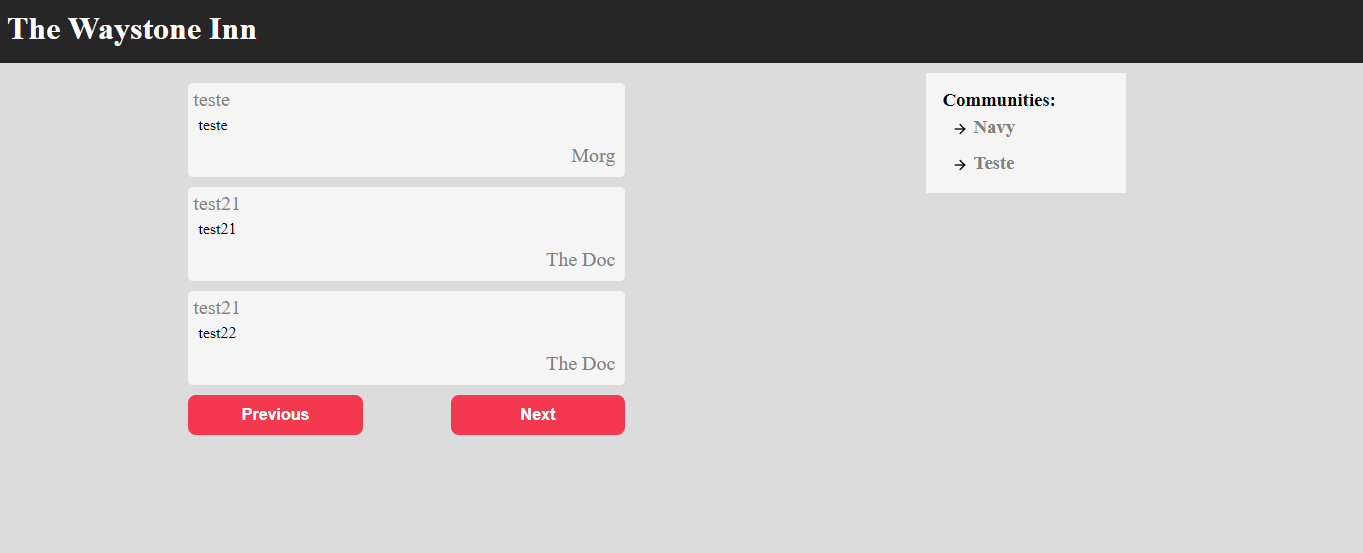
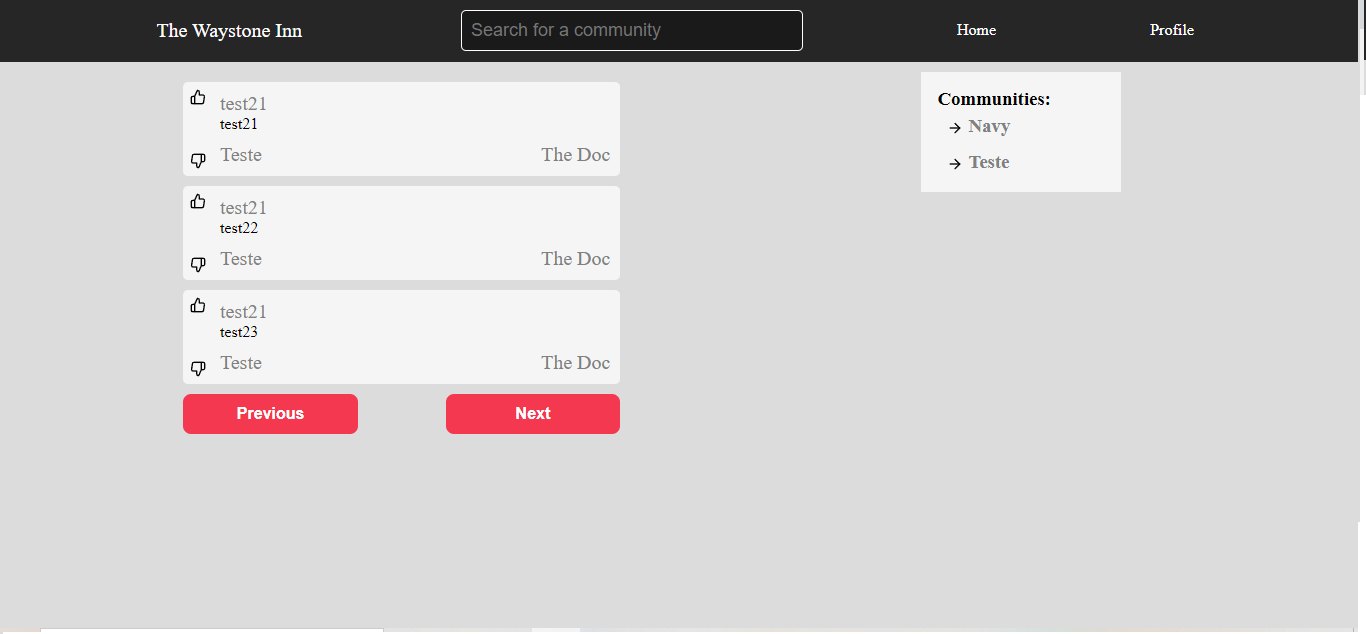
New bar

diff --git a/src/pages/Login/index.js b/src/pages/Login/index.js
@@ -34,41 +34,45 @@ export default function Login(){
         navigate('/')
         window.location.reload()
         }catch(error){
+            console.log(error)
             setError(error.response.data)
             setLoading(false)
         }
     }
     return(
-            <div className='container'>
+            <div className="container">
+                <div className='form-container'>
 
-            <form onSubmit={handleSubmit}>
+                <form onSubmit={handleSubmit}>
 
-            <img src={logo}/>
+                <img src={logo}/>
 
-            <input
-                id="email"
-                type="text"
-                name="email"
-                placeholder='Email'
-                value={email}
-                onChange={e => setEmail(e.target.value)}
-            />
-            <label for='email'> Email </label>
-            <input
-                id="password"
-                name="password"
-                type="password"
-                placeholder="Senha"
-                value={password}
-                onChange={e => setPassword(e.target.value)}
-            />
-            <label className='password' for='Senha'> Senha </label>
-            <button className="button" type="submit" disabled={loading}>Login</button>
+                <input
+                    id="email"
+                    type="text"
+                    name="email"
+                    placeholder='Email'
+                    value={email}
+                    onChange={e => setEmail(e.target.value)}
+                />
+                <label for='email'> Email </label>
+                <input
+                    id="password"
+                    name="password"
+                    type="password"
+                    placeholder="Senha"
+                    value={password}
+                    onChange={e => setPassword(e.target.value)}
+                />
+                <label className='password' for='Senha'> Senha </label>
+                <button className="button" type="submit" disabled={loading}>Login</button>
 
-            </form>
-            <div className='text'> <Link to='/register' >Register</Link> </div>
+                </form>
+                <div className='text'> <Link to='/register' >Register</Link> </div>
 
-            {error && <><small style={{ color: 'red' }}>{error}</small><br /></>}
+                {error && <><small style={{ color: 'red' }}>{error}</small><br /></>}
+                </div>
+
             </div>
     )
 }

diff --git a/src/pages/Login/Login.css b/src/pages/Login/Login.css
@@ -1,6 +1,10 @@
-
-
 .container{
+    display: flex;
+    justify-content: center;
+    align-items: center;
+}
+
+.form-container{
     border-radius: 20px;
     padding: 20px;
     background-color: white;
@@ -11,6 +15,9 @@
     min-height: 70%;
     max-width: 350px;
     text-align: center;
+    @media(max-width: 800px) {
+        left: 5vw;
+    }
 }
 
 button{
@@ -18,13 +25,13 @@ button{
     height: 40px;
 }
 
-.container div.text{
+.form-container div.text{
     margin-top: 5%;
     margin-bottom: 3%;
     top: 30%;
 }
 
-.container form input{
+.form-container form input{
     width: 90%;
     padding: 14px 10px;
     text-align: left;
@@ -34,7 +41,7 @@ button{
     border-bottom: 2px solid silver;
 }
 
-.container form label{
+.form-container form label{
     color: #F33850;
     top: 29%;
     left: 45px;
@@ -43,7 +50,7 @@ button{
     transform-origin: 0 0;
 }
 
-.container form label.password{
+.form-container form label.password{
 
     color: #F33850;
     position: absolute;
@@ -53,10 +60,10 @@ button{
     left: 45px;
 }
 
-.container form input:focus + label, input:not(:placeholder-shown) + label{
+.form-container form input:focus + label, input:not(:placeholder-shown) + label{
     transform: translateY(-22px) scale(0.8);
 }
 
-.container form input::placeholder{
+.form-container form input::placeholder{
     color: transparent;
 }

diff --git a/src/components/Feed/index.js b/src/components/Feed/index.js
@@ -12,7 +12,7 @@ export default function Feed(props){
 
     const [ posts, setPosts ] = useState({})
     const [ error, setError ] = useState(null)
-    const subs = Array.from(JSON.parse(getSubs()))
+    //const subs = Array.from(JSON.parse(getSubs()))
     const [ lastPage, setLastPage ] = useState(false)
     const { pageCount } = props
     const [ page, setPage ] = useState(parseInt(pageCount))
@@ -20,7 +20,7 @@ export default function Feed(props){
 
     useEffect( async ()=>{
         try {    
-            const response = await api.post(`/posts/`, { subs, page }).catch((error)=>{
+            const response = await api.post(`/posts/`, { page }).catch((error)=>{
                 throw Error(error.response.data)
             })
             setLastPage(response.data['lastPage'])
@@ -34,7 +34,7 @@ export default function Feed(props){
     },[])
 
     async function handlePosts(nextMod){
-        const response = await api.post(`/posts/`, { subs, page, nextMod }).catch((error)=>setError(error.message))
+        const response = await api.post(`/posts/`, { page, nextMod }).catch((error)=>setError(error.message))
         setPosts(response.data['docs'])
         setPage(response.data['page'])
         setLastPage(response.data['lastPage'])

diff --git a/src/routes.js b/src/routes.js
@@ -1,5 +1,5 @@
 import React from 'react'
-import { BrowserRouter, Routes, Route } from 'react-router-dom'
+import { BrowserRouter, Routes, Route, Link } from 'react-router-dom'
 import HomePage from './pages/Home/'
 import Login from './pages/Login/'
 import PrivateRoute from './services/private'
@@ -13,6 +13,8 @@ import { EditProfile } from './pages/EditProfile'
 import  Header  from './components/Header/index.js'
 import { Search } from './components/SearchBar/styled'
 import SearchBar from './components/SearchBar'
+import { StyledLink } from './pages/Post/style'
+import { getUser } from './storage/utils'
 
 
 
@@ -22,10 +24,13 @@ export default function RoutesList(){
     return(
         <BrowserRouter>
             <Header>
-                <h1>
+                <span className='title'>
                     The Waystone Inn
-                </h1>
+                </span>
                 <SearchBar />
+                <a href='/'>Home</a>
+                <a href={`/profile/${getUser()}`}>Profile</a>
+
             </Header>
             <Routes>
                 <PublicRoute path='/login' element={<Login />}/>

diff --git a/src/components/Header/index.js b/src/components/Header/index.js
@@ -5,11 +5,22 @@ const Header = styled.div`
     height: 10vh;
     grid-area: h;
     display: flex;
+    align-items: center;
+    justify-content: space-evenly;
     padding: 10px;
     background-color: #262627;
-    align-content: end;
-    h1{
+    a{
+        color: white;
+        text-decoration: none;
+        :hover{
+            color: gray;
+            transform: translate(5px, -5px);
+        }
+    }
+    .title{
+        font-size: 20px;
         color: white;
     }
-`
+
+    `
 export default Header

diff --git a/src/components/SearchBar/styled.js b/src/components/SearchBar/styled.js
@@ -2,7 +2,7 @@ import styled from "styled-components";
 
 
 export const Search = styled.div`
-    padding: 5px;
+    margin-left: 5px;
     input{
         border-radius: 5px;
         padding: 8px;

diff --git a/README.md b/README.md
@@ -13,12 +13,12 @@ It's UI is quite poor yet since design is not my comfort zone and it's in a earl
 
 
 # Screens
-![Login screen](https://github.com/FueledByRage/The-Waystone-Inn-Frontend/blob/master/screens/login.png)
-![Community screen](https://github.com/FueledByRage/The-Waystone-Inn-Frontend/blob/master/screens/community.png)
-![Post screen](https://github.com/FueledByRage/The-Waystone-Inn-Frontend/blob/master/screens/post.png)
-![Post with image](https://github.com/FueledByRage/The-Waystone-Inn-Frontend/blob/master/screens/postImage.png)
-![Profile Screen](https://github.com/FueledByRage/The-Waystone-Inn-Frontend/blob/master/screens/profileScreen.png)
-![Home Page Screen](https://github.com/FueledByRage/The-Waystone-Inn-Frontend/blob/master/screens/HomePage.png)
+![Posting](/screens/posting.gif)
+![Login screen](/screens/login.png)
+![Community screen](/screens/community.png)
+![Post screen](/screens/post.png)
+![Profile Screen](/screens/profileScreen.png)
+![Home Page Screen](/screens/HomePage.png)
 
 
 By: [Erik](https://www.linkedin.com/in/erik-natan-moreira-santos-983865195/)
